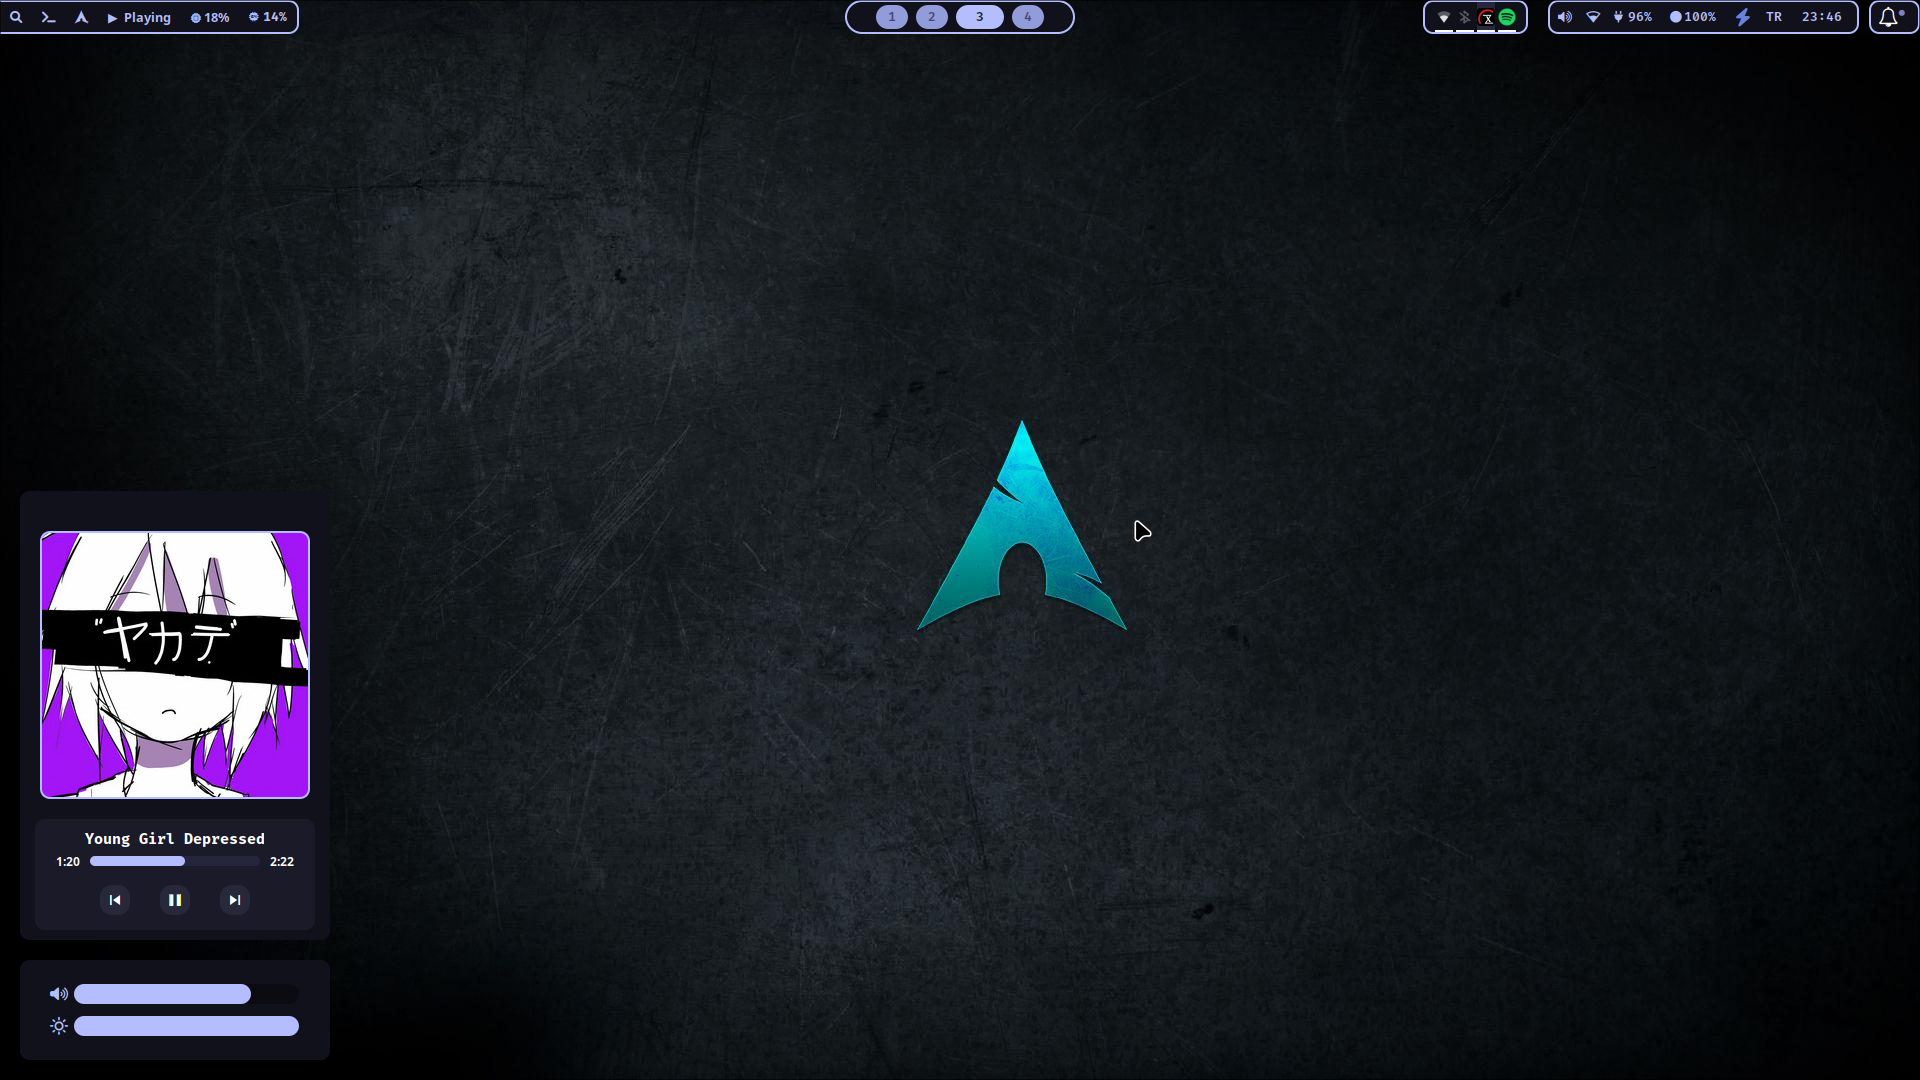
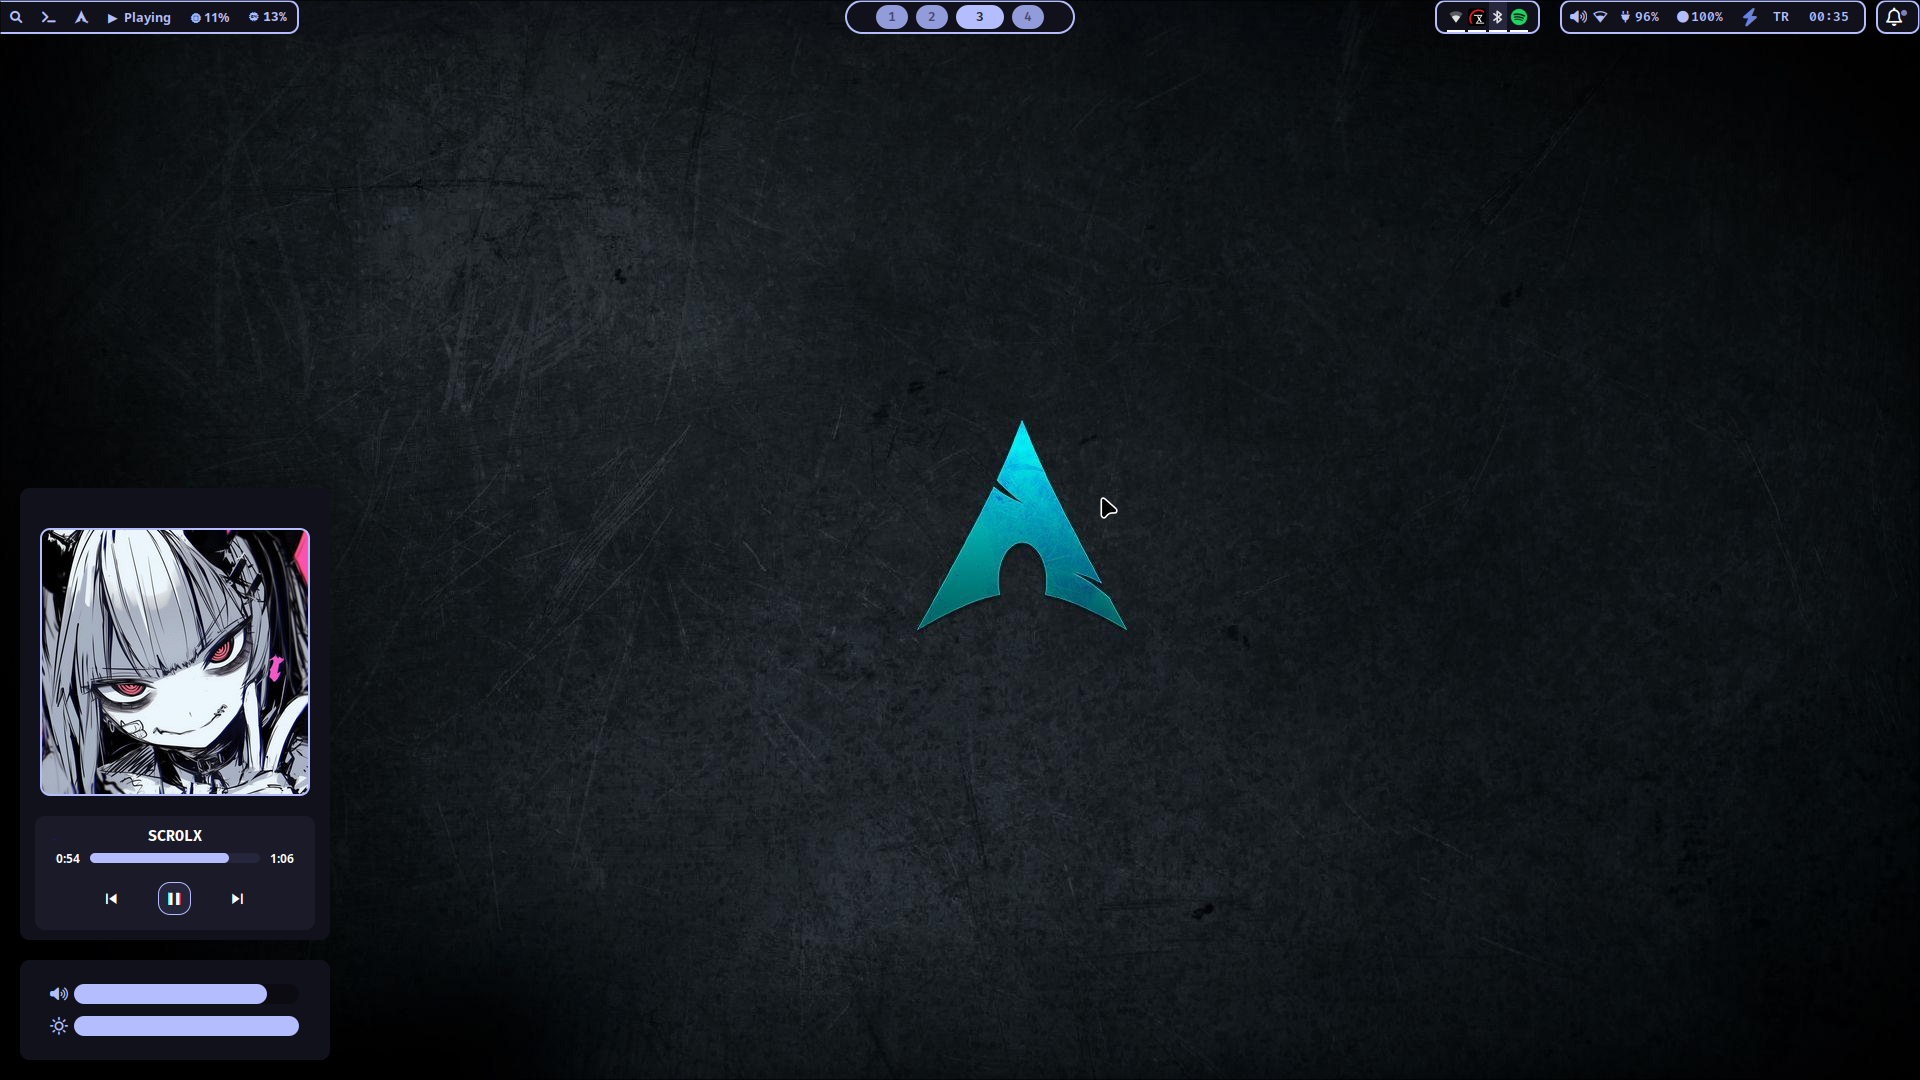
Theme changes and bug fixes.

diff --git a/eww/eww.scss b/eww/eww.scss
@@ -110,13 +110,21 @@
 }
 
 .test:hover{
-  background-color: #b4befe;
-  color: #191925;
+  background-color: #191925;
+  color: #b4befe;
 }
 
 .testenabled{
   background-color: #b4befe;
   color: #191925;
+}
+
+.testenabled:hover {
+  background-color: #838ab6;
+}
+
+.test:active, .testenabled:active{
+  background-color: #cdd4ff;
 }
 
 .musiccenter{
@@ -144,18 +152,33 @@
   margin: 0px 5px;
   border-radius: 10px;
 }
-.musicbutton{
+.musicbutton, .playbutton{
   margin-top: 10px;
   margin-bottom: 10px;
-  font-size: 20px;
-  background-color: #28283b;
+  font-size: 21px;
   padding: 2px 10px;
   border-radius: 12px;
   transition: all 0.25s cubic-bezier(0.165, 0.84, 0.44, 1);
 }
 
+.playbutton {
+  background-color: #25253b;
+  border: 1px solid #b4befe;
+}
+
+.playbutton:hover {
+  background-color: #363657;
+}
+.playbutton:active{
+  background-color: #515181;
+}
+
 .musicbutton:hover {
   background-color: #25253b;  
+}
+
+.musicbutton:active{
+  background-color: #424268;
 }
 
 .musictitle{
